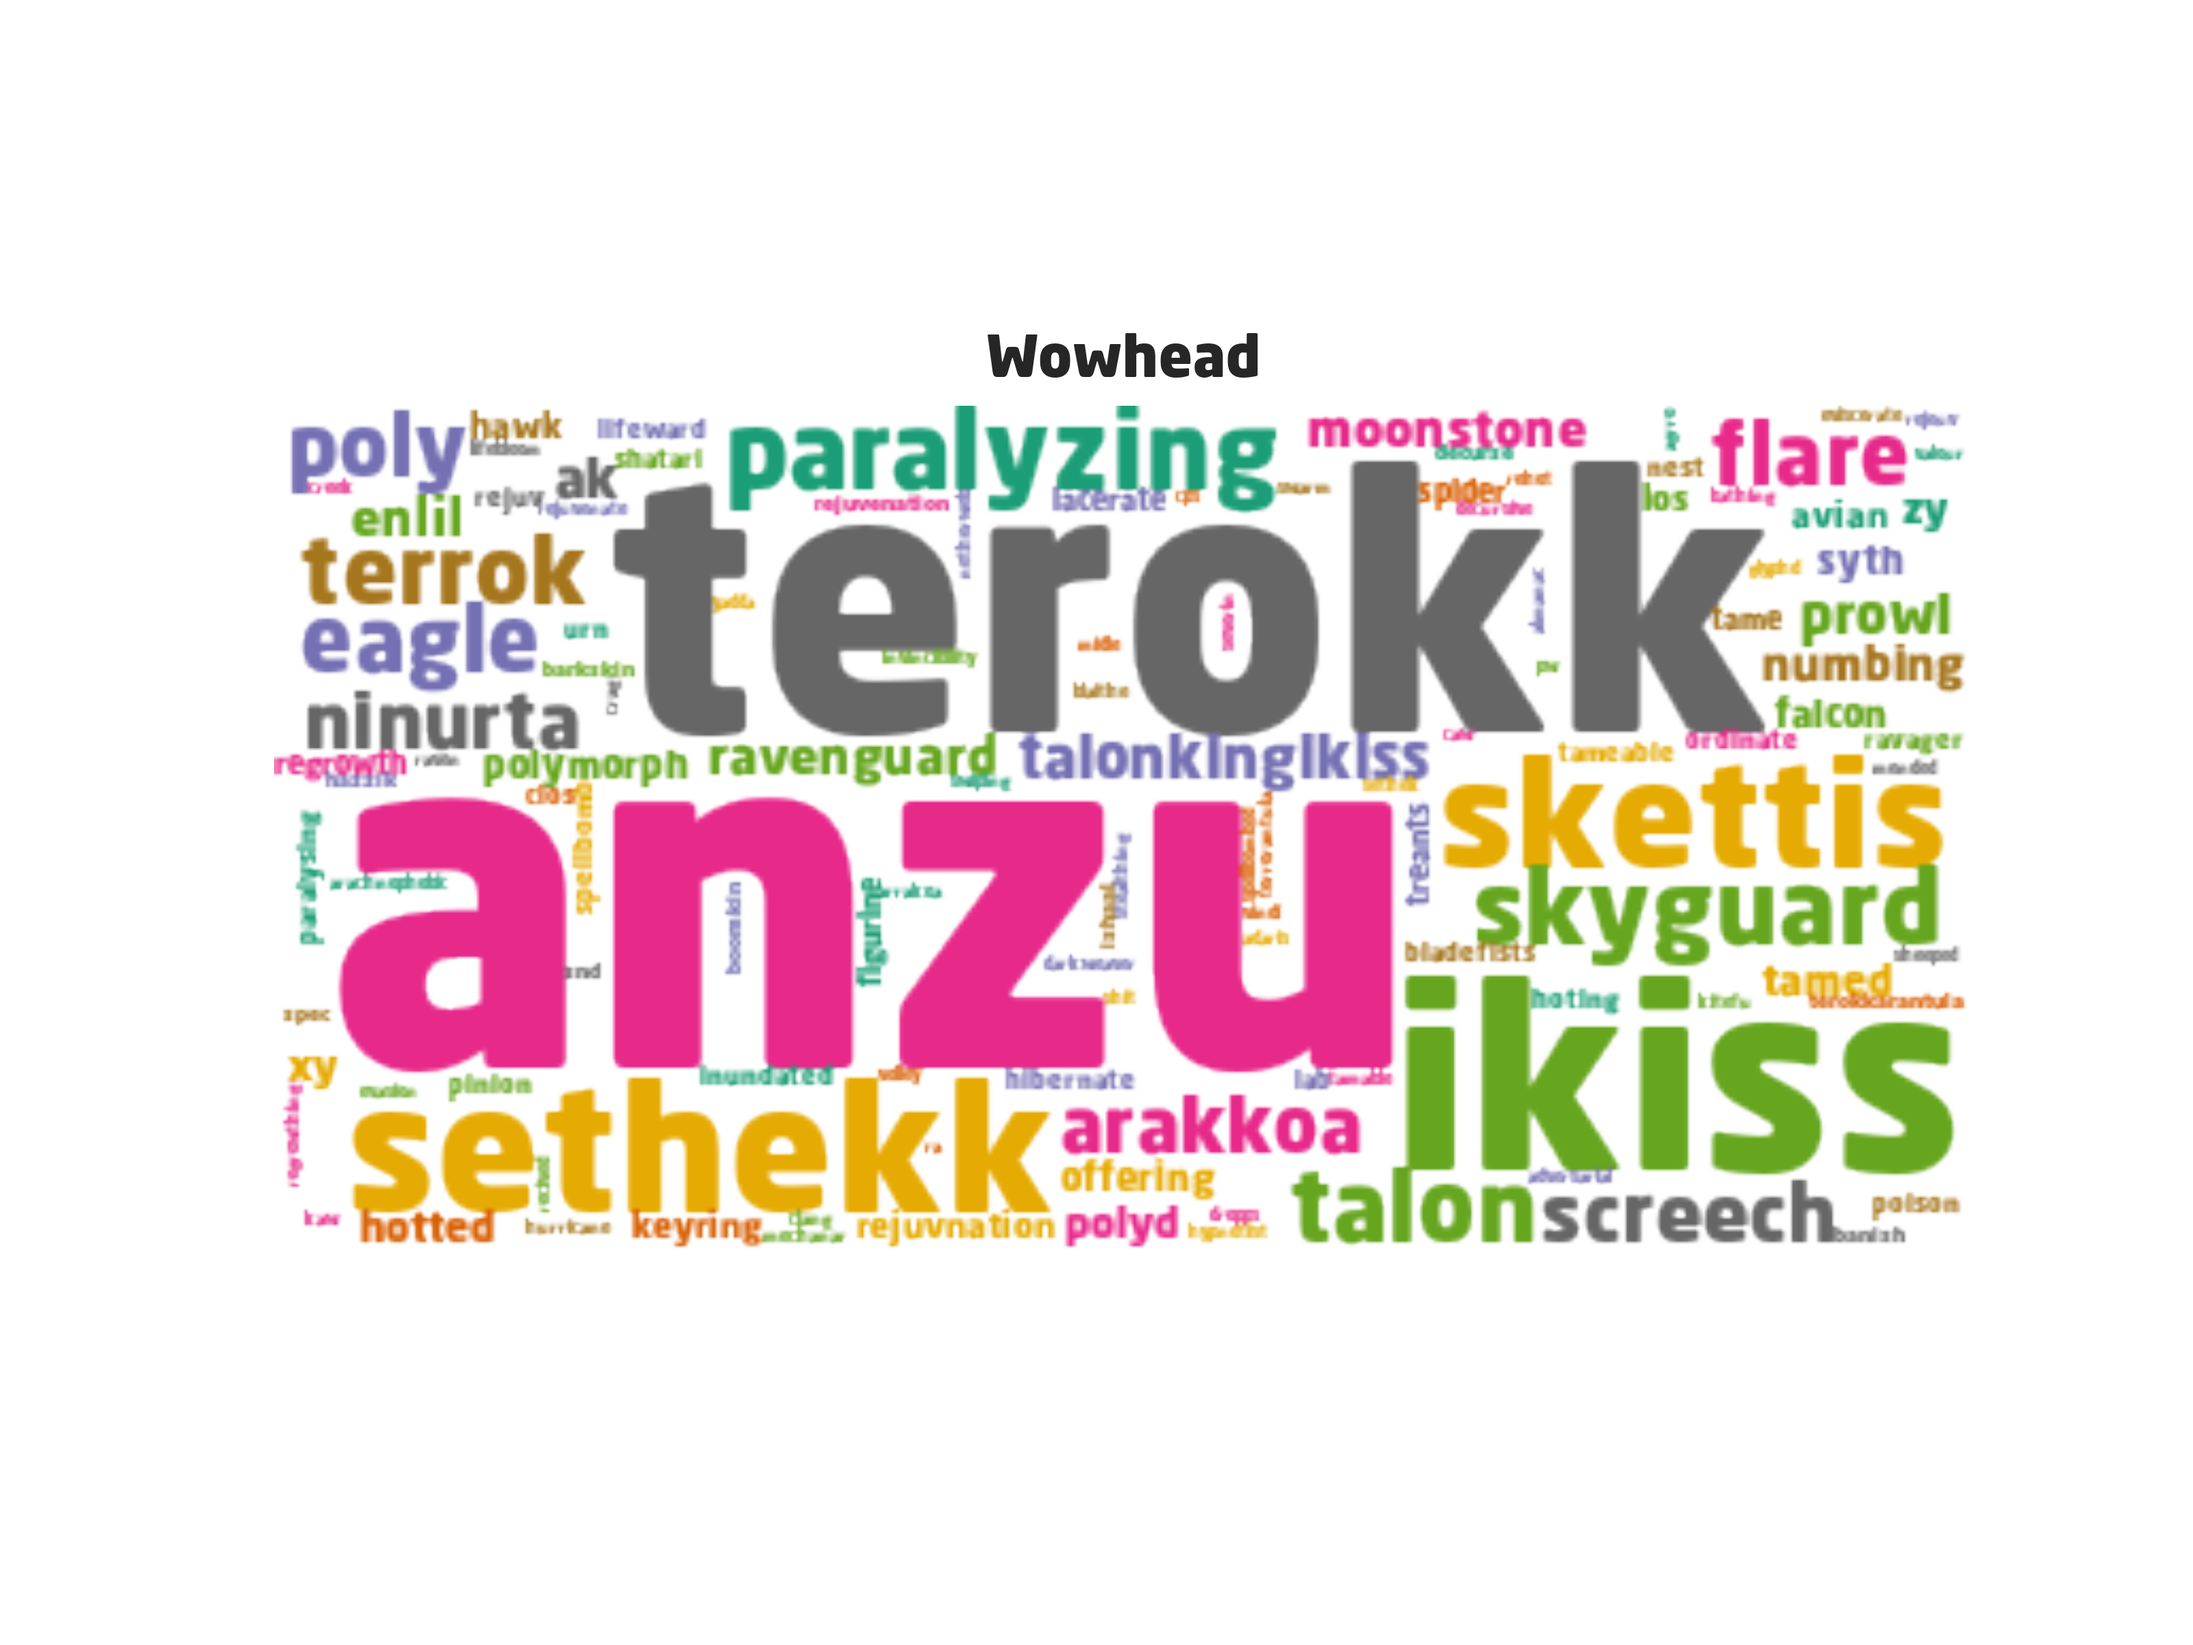
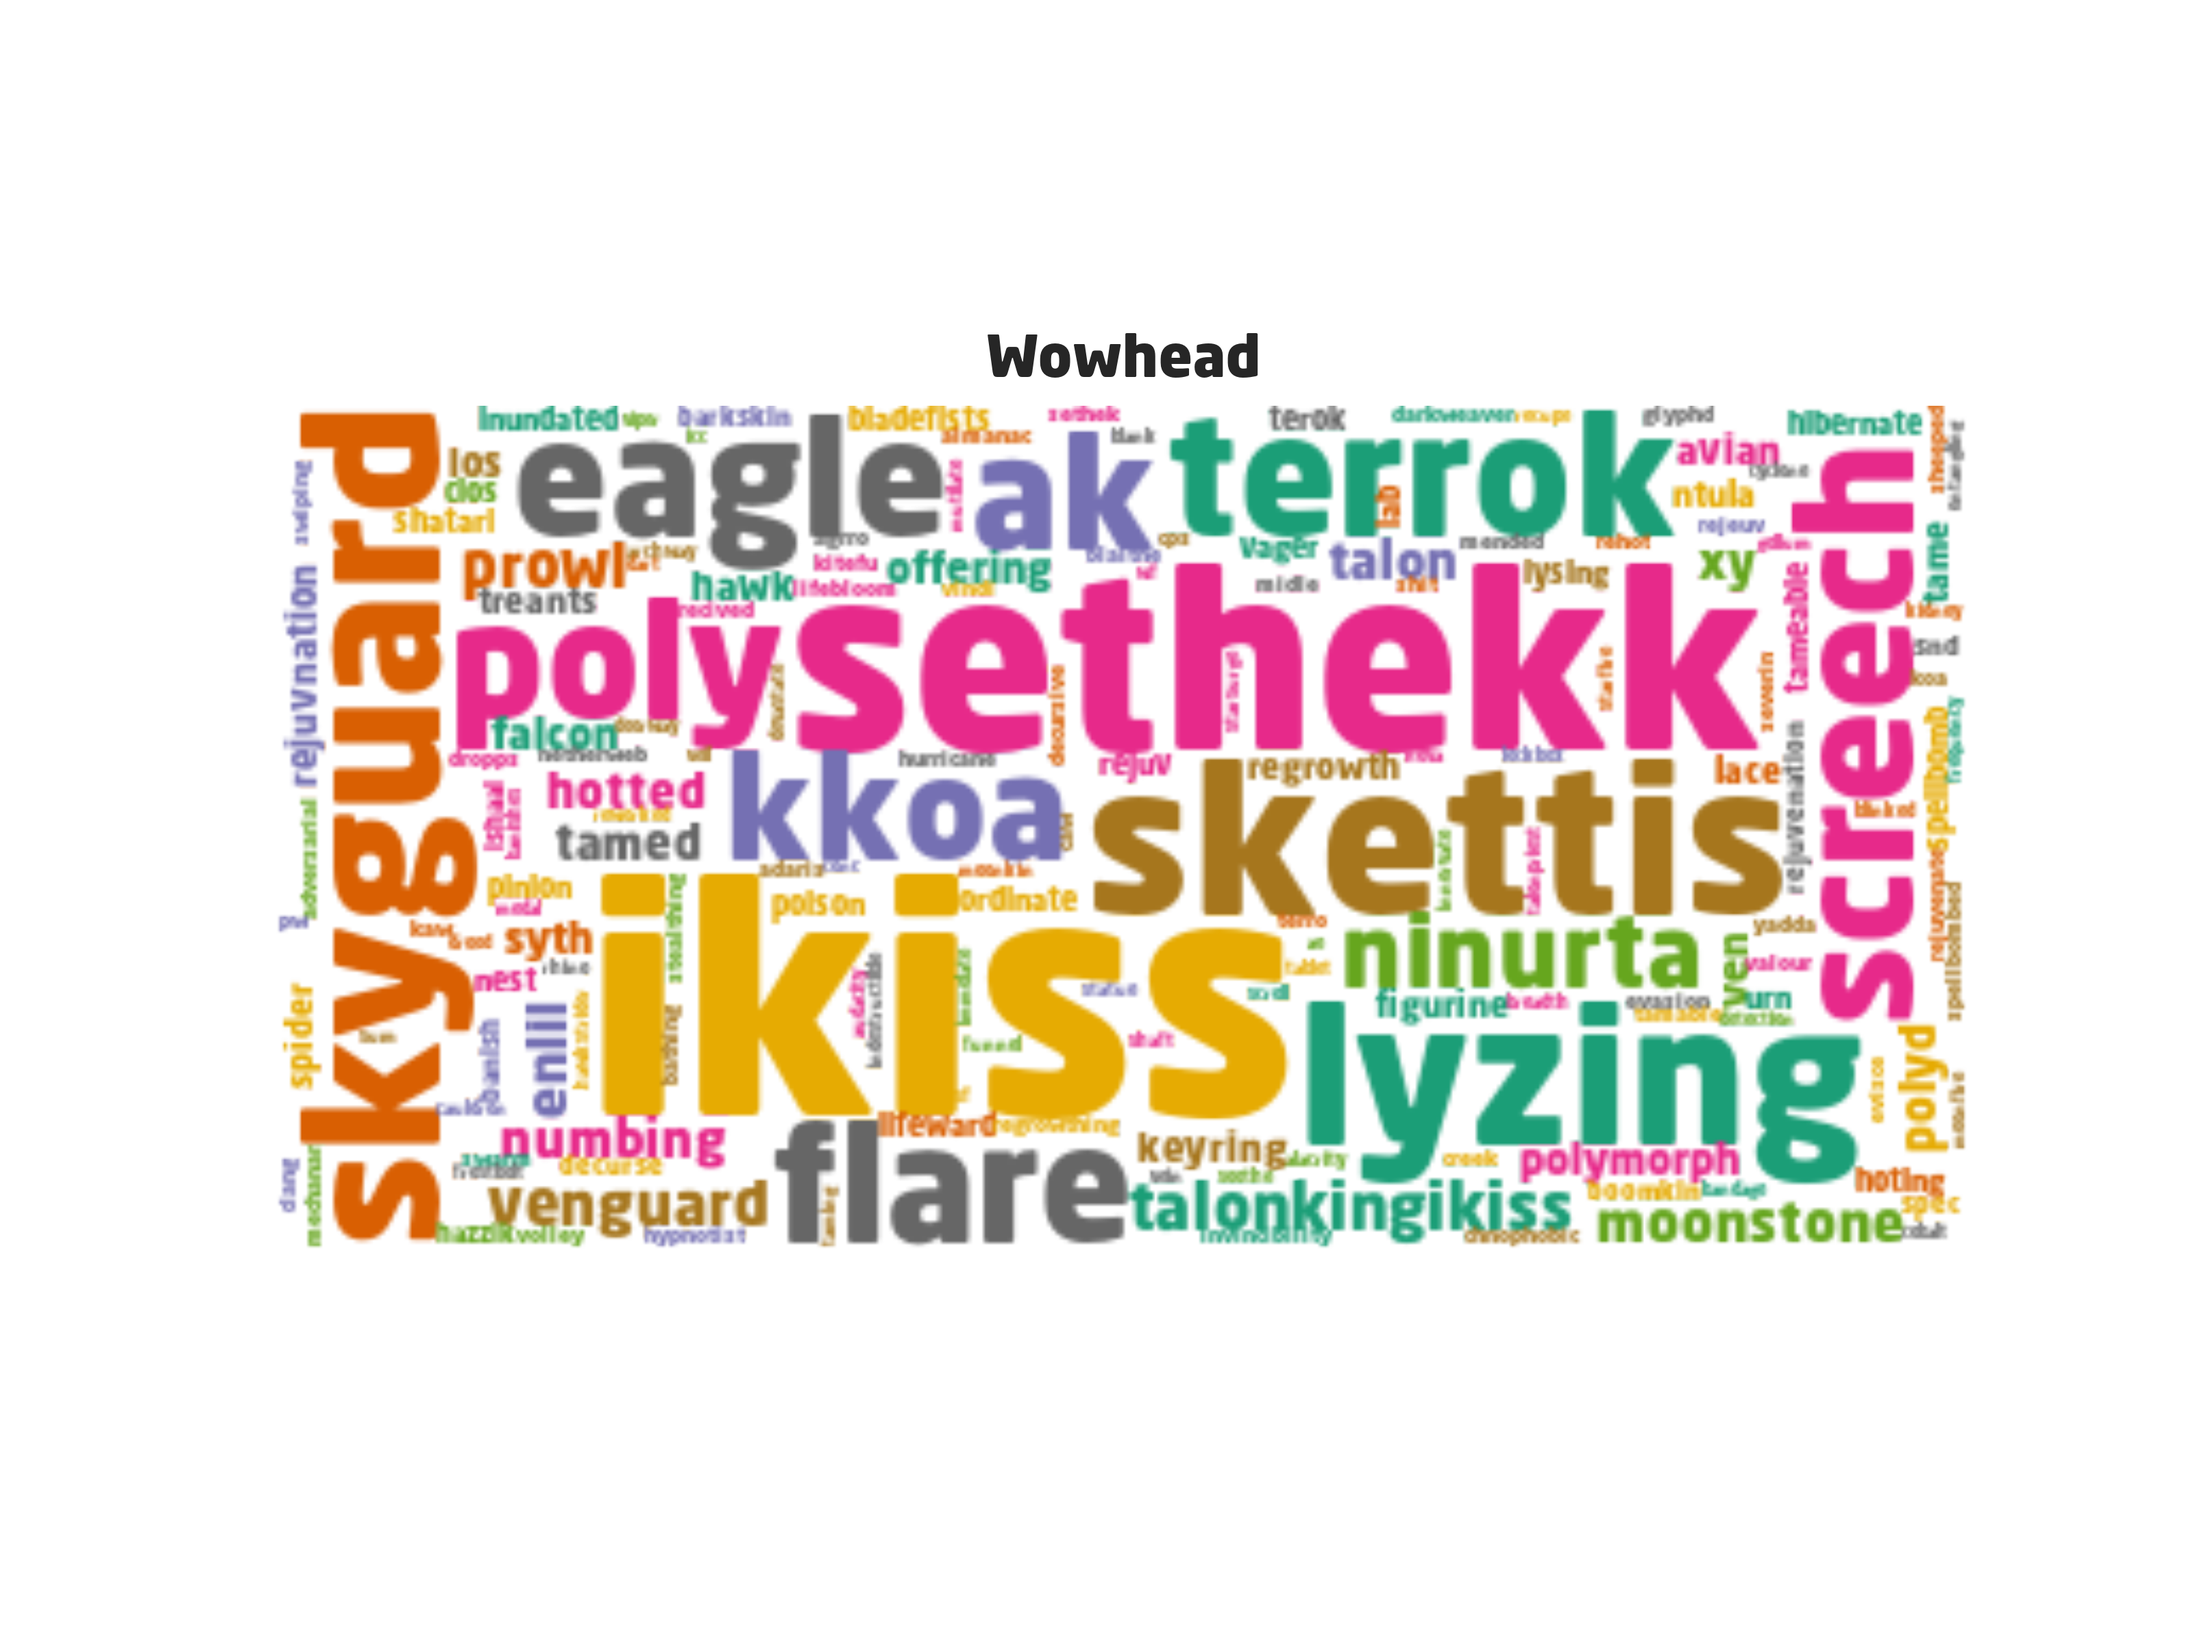
Unknown + new WC + masks

diff --git a/create_wordclouds.py b/create_wordclouds.py
@@ -19,7 +19,7 @@ print(f'Creating Wordclouds for {source}')
 
 # define what to look into
 attr_lookup = {
-    'Gender': ['Male', 'Female'],
+    'Gender': ['Male', 'Female', 'Unknown'],
     'Faction': ['Alliance', 'Horde'],
     'Status': ['Alive', 'Deceased']
 }
